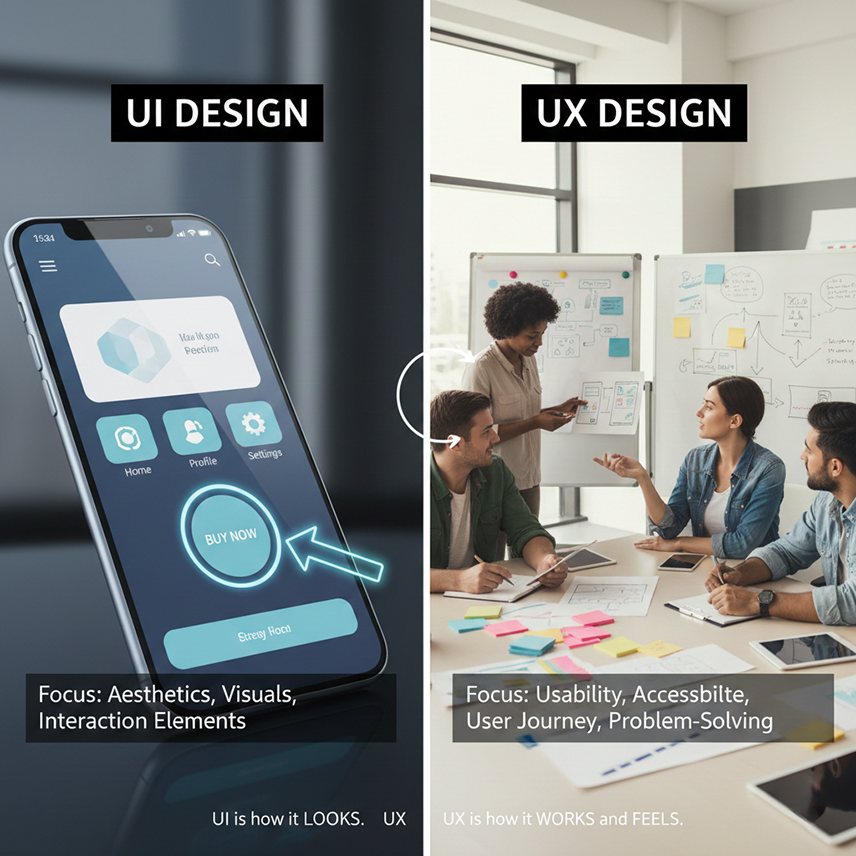
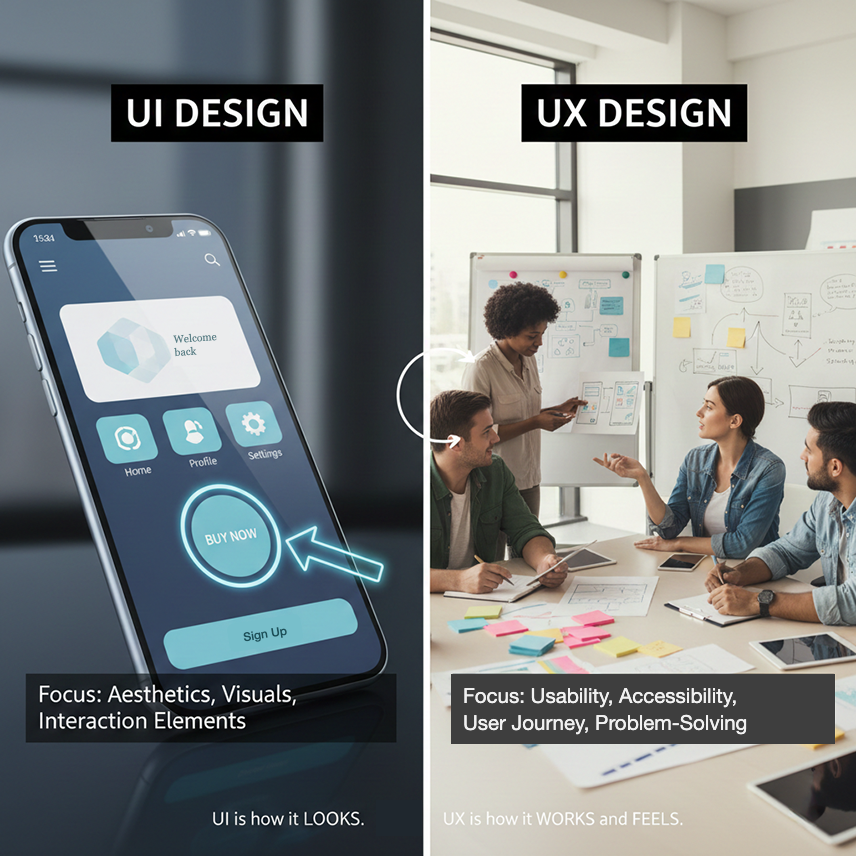
Ch 4: redrawn/corrected images (elements, principles, F/Z pattern, typography, art of design, contrast, color theory, usability, UI patterns, UI vs UX)
Gemini-garbled text and wrong diagrams replaced; same file names (the practicum
check still finds them), ?v=2 so browsers fetch the new ones, better alt text.
Page images drop from about 22 MB to 5 MB.

diff --git a/year1/the-why-intro-to-uiux.html b/year1/the-why-intro-to-uiux.html
@@ -63,8 +63,8 @@
 
           <!-- MOVED BANNER IMAGE -->
           <figure class="mb-4 text-center mt-4">
-            <a href="/images/the-why-intro-to-uiux/figure-01.png" target="_blank" rel="noopener">
-              <img src="/images/the-why-intro-to-uiux/figure-01.png" alt="UI vs UX Concept" class="img-fluid rounded shadow-sm border w-100" style="object-fit: cover; height: 350px;" onerror="this.src='https://placehold.co/600x400?text=UI+vs+UX+Concept'">
+            <a href="/images/the-why-intro-to-uiux/figure-01.png?v=2" target="_blank" rel="noopener">
+              <img src="/images/the-why-intro-to-uiux/figure-01.png?v=2" alt="UI design (a polished phone app screen) vs. UX design (a team mapping the user journey on whiteboards)" class="img-fluid rounded shadow-sm border w-100" style="object-fit: cover; height: 350px;" onerror="this.src='https://placehold.co/600x400?text=UI+vs+UX+Concept'">
             </a>
             <figcaption class="p-2 small text-muted text-center">
               <strong>Figure 4.1:</strong> UI vs UX Concept - The visual interface vs. the overall experience.
@@ -72,8 +72,8 @@
           </figure>
 
           <figure class="mb-4 text-center">
-            <a href="/images/the-why-intro-to-uiux/art-of-design.png" target="_blank" rel="noopener">
-              <img src="/images/the-why-intro-to-uiux/art-of-design.png" alt="The Art of Design overview: Usability, Simplicity and White Space, Accessibility, Visual Hierarchy, Typography, Color Psychology, and Alignment/Balance/Contrast" class="img-fluid rounded shadow-sm border w-100">
+            <a href="/images/the-why-intro-to-uiux/art-of-design.png?v=2" target="_blank" rel="noopener">
+              <img src="/images/the-why-intro-to-uiux/art-of-design.png?v=2" alt="The Art of Design overview: Usability, Simplicity and White Space, Accessibility, Visual Hierarchy, Typography, Color Psychology, and Alignment/Balance/Contrast" class="img-fluid rounded shadow-sm border w-100">
             </a>
             <figcaption class="p-2 small text-muted text-center">
               Everything in this chapter, in one picture. We'll unpack every piece of it.
@@ -283,8 +283,8 @@
       </div>
       <div class="col-lg-4 mt-4 mt-lg-0 text-center">
         <figure class="mb-4 text-center">
-          <a href="/images/the-why-intro-to-uiux/elementsofart.png" target="_blank" rel="noopener">
-            <img src="/images/the-why-intro-to-uiux/elementsofart.png" alt="The Elements of Design: Line, Shape, Form, Color, Space, Texture, and Value shown as a reference chart" class="img-fluid rounded border shadow-sm w-100">
+          <a href="/images/the-why-intro-to-uiux/elementsofart.png?v=2" target="_blank" rel="noopener">
+            <img src="/images/the-why-intro-to-uiux/elementsofart.png?v=2" alt="The Elements of Design: Line, Shape, Form, Color, Space, Texture, and Value shown as a reference chart" class="img-fluid rounded border shadow-sm w-100">
           </a>
           <figcaption class="p-2 small text-muted text-center">The 7 Elements of Design, all in one reference chart.</figcaption>
         </figure>
@@ -440,8 +440,8 @@
       </div>
       <div class="col-lg-4 mt-4 mt-lg-0 text-center">
         <figure class="mb-4 text-center">
-          <a href="/images/the-why-intro-to-uiux/principlesofdesign.png" target="_blank" rel="noopener">
-            <img src="/images/the-why-intro-to-uiux/principlesofdesign.png" alt="The Principles of Design: Balance, Contrast, Emphasis, Movement, Pattern, Repetition, Rhythm, and Unity shown as a reference chart" class="img-fluid rounded border shadow-sm w-100">
+          <a href="/images/the-why-intro-to-uiux/principlesofdesign.png?v=2" target="_blank" rel="noopener">
+            <img src="/images/the-why-intro-to-uiux/principlesofdesign.png?v=2" alt="The Principles of Design: Balance, Contrast, Emphasis, Movement, Pattern/Repetition, Proportion, Rhythm, and Unity shown as a reference chart" class="img-fluid rounded border shadow-sm w-100">
           </a>
           <figcaption class="p-2 small text-muted text-center">The 8 Principles of Design, all in one reference chart.</figcaption>
         </figure>
@@ -630,8 +630,8 @@
       </div>
       <div class="col-lg-4 mt-4 mt-lg-0 text-center">
         <figure class="mb-4 text-center">
-          <a href="/images/the-why-intro-to-uiux/figure-03.png" target="_blank" rel="noopener">
-            <img src="/images/the-why-intro-to-uiux/figure-03.png" alt="Color contrast example" class="img-fluid rounded border shadow-sm w-100" onerror="this.src='https://placehold.co/600x400?text=Contrast+Matters'">
+          <a href="/images/the-why-intro-to-uiux/figure-03.png?v=2" target="_blank" rel="noopener">
+            <img src="/images/the-why-intro-to-uiux/figure-03.png?v=2" alt="Poor contrast: light gray text on white, ratio 1.7 to 1, fails. Good contrast: near-black text on white, ratio 17.4 to 1, passes. Body text needs at least 4.5 to 1." class="img-fluid rounded border shadow-sm w-100" onerror="this.src='https://placehold.co/600x400?text=Contrast+Matters'">
           </a>
           <figcaption class="p-2 small text-muted text-center"><strong>Figure 4.3:</strong> Contrast Matters - Designing for visibility.</figcaption>
         </figure>
@@ -673,8 +673,8 @@
           </div>
 
           <figure class="mb-4 text-center">
-            <a href="/images/the-why-intro-to-uiux/colortheory.png" target="_blank" rel="noopener">
-              <img src="/images/the-why-intro-to-uiux/colortheory.png" alt="Color Theory reference chart showing color properties, additive and subtractive mixing, RGB/CMY/Grayscale models, color harmonies, and color meanings" class="img-fluid rounded border shadow-sm w-100">
+            <a href="/images/the-why-intro-to-uiux/colortheory.png?v=2" target="_blank" rel="noopener">
+              <img src="/images/the-why-intro-to-uiux/colortheory.png?v=2" alt="Color Theory reference chart showing color properties, additive and subtractive mixing, RGB/CMY/Grayscale models, color harmonies, and color meanings" class="img-fluid rounded border shadow-sm w-100">
             </a>
             <figcaption class="p-2 small text-muted text-center">The full color theory picture: properties, mixing, models, harmonies, and psychology.</figcaption>
           </figure>
@@ -702,8 +702,8 @@
           </div>
 
           <figure class="mb-4 text-center">
-            <a href="/images/the-why-intro-to-uiux/typography.png" target="_blank" rel="noopener">
-              <img src="/images/the-why-intro-to-uiux/typography.png" alt="Typography basics reference: serif vs. sans-serif, font hierarchy, line height, kerning and tracking, and the 2-font rule" class="img-fluid rounded border shadow-sm w-100">
+            <a href="/images/the-why-intro-to-uiux/typography.png?v=2" target="_blank" rel="noopener">
+              <img src="/images/the-why-intro-to-uiux/typography.png?v=2" alt="Typography basics reference: serif vs. sans-serif, font hierarchy, line height, kerning and tracking, and the 2-font rule" class="img-fluid rounded border shadow-sm w-100">
             </a>
             <figcaption class="p-2 small text-muted text-center">Typography basics: hierarchy, leading, kerning/tracking, and the 2-font rule.</figcaption>
           </figure>
@@ -887,8 +887,8 @@
           </ul>
 
           <figure class="mb-4 text-center mx-auto" style="max-width: 700px;">
-            <a href="/images/join-the-developers-guild/fVsZpattern.png" target="_blank" rel="noopener">
-              <img src="/images/join-the-developers-guild/fVsZpattern.png" alt="F-Pattern eye-tracking scan on a text-heavy layout versus Z-Pattern eye-tracking scan on a visual homepage layout" class="img-fluid rounded border shadow-sm w-100">
+            <a href="/images/join-the-developers-guild/fVsZpattern.png?v=2" target="_blank" rel="noopener">
+              <img src="/images/join-the-developers-guild/fVsZpattern.png?v=2" alt="F-Pattern eye-tracking scan on a text-heavy layout versus Z-Pattern eye-tracking scan on a visual homepage layout" class="img-fluid rounded border shadow-sm w-100">
             </a>
             <figcaption class="p-2 small text-muted text-center">F-Pattern for text-heavy layouts, Z-Pattern for visual homepages — from Chapter 3.</figcaption>
           </figure>
@@ -969,8 +969,8 @@
       </div>
       <div class="col-lg-4 mt-4 mt-lg-0 text-center">
         <figure class="mb-4 text-center">
-          <a href="/images/the-why-intro-to-uiux/figure-05.png" target="_blank" rel="noopener">
-            <img src="/images/the-why-intro-to-uiux/figure-05.png" alt="UI Patterns" class="img-fluid rounded border shadow-sm w-100" onerror="this.src='https://placehold.co/600x400?text=UI+Patterns'">
+          <a href="/images/the-why-intro-to-uiux/figure-05.png?v=2" target="_blank" rel="noopener">
+            <img src="/images/the-why-intro-to-uiux/figure-05.png?v=2" alt="Standard UI patterns: product cards, a hero banner, a hamburger menu, a login modal, and breadcrumbs" class="img-fluid rounded border shadow-sm w-100" onerror="this.src='https://placehold.co/600x400?text=UI+Patterns'">
           </a>
           <figcaption class="p-2 small text-muted text-center"><strong>Figure 4.5:</strong> Standard UI Patterns used in modern web development.</figcaption>
         </figure>
@@ -1066,8 +1066,8 @@
           <p class="text-center mx-auto mb-4" style="max-width: 800px;"><strong>The What:</strong> A <strong>Usability Test</strong> (nicknamed "The Mom Test") is a structured procedure for watching a real person try to use your design and use their confusion to find problems before a client ever sees them.</p>
 
           <figure class="mb-4 text-center mx-auto" style="max-width: 700px;">
-            <a href="/images/the-why-intro-to-uiux/useability.png" target="_blank" rel="noopener">
-              <img src="/images/the-why-intro-to-uiux/useability.png" alt="Side-by-side comparison of bad usability (cluttered, unreadable product page) versus good usability (clean, scannable product page)" class="img-fluid rounded border shadow-sm w-100">
+            <a href="/images/the-why-intro-to-uiux/useability.png?v=2" target="_blank" rel="noopener">
+              <img src="/images/the-why-intro-to-uiux/useability.png?v=2" alt="Side-by-side comparison of bad usability (cluttered, unreadable product page) versus good usability (clean, scannable product page)" class="img-fluid rounded border shadow-sm w-100">
             </a>
             <figcaption class="p-2 small text-muted text-center">Same product, same information — one version nobody can use.</figcaption>
           </figure>

diff --git a/year1/join-the-developers-guild.html b/year1/join-the-developers-guild.html
@@ -1517,8 +1517,8 @@
                             </figure>
 
                             <figure class="mb-4 text-center">
-                                <a href="/images/join-the-developers-guild/fVsZpattern.png" target="_blank" rel="noopener">
-                                    <img src="/images/join-the-developers-guild/fVsZpattern.png" alt="F-Pattern vs Z-Pattern eye tracking" class="img-fluid rounded shadow-sm border w-100">
+                                <a href="/images/join-the-developers-guild/fVsZpattern.png?v=2" target="_blank" rel="noopener">
+                                    <img src="/images/join-the-developers-guild/fVsZpattern.png?v=2" alt="F-Pattern vs Z-Pattern eye tracking" class="img-fluid rounded shadow-sm border w-100">
                                 </a>
                                 <figcaption class="p-2 small text-muted text-center">
                                     <strong>Figure 1.8e:</strong> Eye-tracking research reveals how users scan web pages using F and Z reading patterns — design your most important content along those paths.
